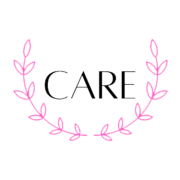
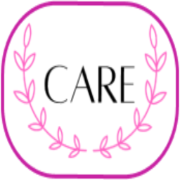
Some Updates

Changed region(s): [[0.0, 0.0, 1.0, 1.0], [0.1944, 0.3611, 0.4167, 0.5833]]

diff --git a/client/src/components/designers/Designer1.js b/client/src/components/designers/Designer1.js
@@ -1,0 +1,110 @@
+export default function desginer1() {
+
+    return (
+        <svg width="1325" height="1358" viewBox="0 0 1325 1358" fill="none" xmlns="http://www.w3.org/2000/svg">
+            <path opacity="0.5" d="M316.502 275.469C267.126 423.968 351.017 595.544 355.426 757.541C356.95 813.917 348.753 870.262 360.92 926.348C388.659 1054.79 513.669 1142.85 633.931 1184.33C691.287 1204.13 752.079 1217.19 808.713 1205.54C852.265 1196.58 890.737 1173.62 928.385 1150.88L1588.48 753.449C1662.17 709.065 1741.89 656.248 1759.71 567.259C1772.01 505.964 1751.71 440.022 1730.78 378.042C1705.06 301.882 1674.37 220.876 1611.31 172.097C1539.22 116.261 1444.75 117.65 1363.2 81.3895C1230.94 22.7139 1137.86 -131.934 999.186 -158.383C934.454 -170.721 870.669 -151.898 812.854 -126.513C703.846 -78.6759 625.067 6.35946 524.223 63.4092C438.026 112.179 350.298 173.808 316.502 275.469Z" fill="#EF99C7" />
+            <rect opacity="0.65" x="1265.01" y="390.065" width="24.0166" height="5" transform="rotate(-31.641 1265.01 390.065)" fill="url(#paint0_linear_159_13)" />
+            <rect opacity="0.65" x="1271.83" y="401.133" width="24.0166" height="5" transform="rotate(-31.641 1271.83 401.133)" fill="url(#paint1_linear_159_13)" />
+            <rect opacity="0.65" x="1278.12" y="411.349" width="24.0166" height="5" transform="rotate(-31.641 1278.12 411.349)" fill="url(#paint2_linear_159_13)" />
+            <rect opacity="0.65" x="1284.94" y="422.417" width="24.0166" height="5" transform="rotate(-31.641 1284.94 422.417)" fill="url(#paint3_linear_159_13)" />
+            <rect opacity="0.65" x="1291.76" y="433.484" width="24.0166" height="5" transform="rotate(-31.641 1291.76 433.484)" fill="url(#paint4_linear_159_13)" />
+            <rect opacity="0.65" x="1298.58" y="444.552" width="24.0166" height="5" transform="rotate(-31.641 1298.58 444.552)" fill="url(#paint5_linear_159_13)" />
+            <rect opacity="0.65" x="1305.4" y="455.619" width="24.0166" height="5" transform="rotate(-31.641 1305.4 455.619)" fill="url(#paint6_linear_159_13)" />
+            <rect opacity="0.65" x="1311.7" y="465.836" width="24.0166" height="5" transform="rotate(-31.641 1311.7 465.836)" fill="url(#paint7_linear_159_13)" />
+            <rect opacity="0.65" x="1318.51" y="476.903" width="24.0166" height="5" transform="rotate(-31.641 1318.51 476.903)" fill="url(#paint8_linear_159_13)" />
+            <defs>
+                <linearGradient id="paint0_linear_159_13" x1="1267.37" y1="411.816" x2="1371.44" y2="322.033" gradientUnits="userSpaceOnUse">
+                    <stop stop-color="white" stop-opacity="0.01" />
+                    <stop offset="0.07" stop-color="white" stop-opacity="0.22" />
+                    <stop offset="0.16" stop-color="white" stop-opacity="0.45" />
+                    <stop offset="0.25" stop-color="white" stop-opacity="0.65" />
+                    <stop offset="0.33" stop-color="white" stop-opacity="0.8" />
+                    <stop offset="0.4" stop-color="white" stop-opacity="0.91" />
+                    <stop offset="0.46" stop-color="white" stop-opacity="0.98" />
+                    <stop offset="0.51" stop-color="white" />
+                </linearGradient>
+                <linearGradient id="paint1_linear_159_13" x1="1274.19" y1="422.884" x2="1378.26" y2="333.101" gradientUnits="userSpaceOnUse">
+                    <stop stop-color="white" stop-opacity="0.01" />
+                    <stop offset="0.07" stop-color="white" stop-opacity="0.22" />
+                    <stop offset="0.16" stop-color="white" stop-opacity="0.45" />
+                    <stop offset="0.25" stop-color="white" stop-opacity="0.65" />
+                    <stop offset="0.33" stop-color="white" stop-opacity="0.8" />
+                    <stop offset="0.4" stop-color="white" stop-opacity="0.91" />
+                    <stop offset="0.46" stop-color="white" stop-opacity="0.98" />
+                    <stop offset="0.51" stop-color="white" />
+                </linearGradient>
+                <linearGradient id="paint2_linear_159_13" x1="1280.48" y1="433.121" x2="1384.55" y2="343.338" gradientUnits="userSpaceOnUse">
+                    <stop stop-color="white" stop-opacity="0.01" />
+                    <stop offset="0.07" stop-color="white" stop-opacity="0.22" />
+                    <stop offset="0.16" stop-color="white" stop-opacity="0.45" />
+                    <stop offset="0.25" stop-color="white" stop-opacity="0.65" />
+                    <stop offset="0.33" stop-color="white" stop-opacity="0.8" />
+                    <stop offset="0.4" stop-color="white" stop-opacity="0.91" />
+                    <stop offset="0.46" stop-color="white" stop-opacity="0.98" />
+                    <stop offset="0.51" stop-color="white" />
+                </linearGradient>
+                <linearGradient id="paint3_linear_159_13" x1="1287.3" y1="444.188" x2="1391.37" y2="354.406" gradientUnits="userSpaceOnUse">
+                    <stop stop-color="white" stop-opacity="0.01" />
+                    <stop offset="0.07" stop-color="white" stop-opacity="0.22" />
+                    <stop offset="0.16" stop-color="white" stop-opacity="0.45" />
+                    <stop offset="0.25" stop-color="white" stop-opacity="0.65" />
+                    <stop offset="0.33" stop-color="white" stop-opacity="0.8" />
+                    <stop offset="0.4" stop-color="white" stop-opacity="0.91" />
+                    <stop offset="0.46" stop-color="white" stop-opacity="0.98" />
+                    <stop offset="0.51" stop-color="white" />
+                </linearGradient>
+                <linearGradient id="paint4_linear_159_13" x1="1294.07" y1="455.235" x2="1398.4" y2="365.513" gradientUnits="userSpaceOnUse">
+                    <stop stop-color="white" stop-opacity="0.01" />
+                    <stop offset="0.07" stop-color="white" stop-opacity="0.22" />
+                    <stop offset="0.16" stop-color="white" stop-opacity="0.45" />
+                    <stop offset="0.25" stop-color="white" stop-opacity="0.65" />
+                    <stop offset="0.33" stop-color="white" stop-opacity="0.8" />
+                    <stop offset="0.4" stop-color="white" stop-opacity="0.91" />
+                    <stop offset="0.46" stop-color="white" stop-opacity="0.98" />
+                    <stop offset="0.51" stop-color="white" />
+                </linearGradient>
+                <linearGradient id="paint5_linear_159_13" x1="1300.89" y1="466.303" x2="1405.22" y2="376.58" gradientUnits="userSpaceOnUse">
+                    <stop stop-color="white" stop-opacity="0.01" />
+                    <stop offset="0.07" stop-color="white" stop-opacity="0.22" />
+                    <stop offset="0.16" stop-color="white" stop-opacity="0.45" />
+                    <stop offset="0.25" stop-color="white" stop-opacity="0.65" />
+                    <stop offset="0.33" stop-color="white" stop-opacity="0.8" />
+                    <stop offset="0.4" stop-color="white" stop-opacity="0.91" />
+                    <stop offset="0.46" stop-color="white" stop-opacity="0.98" />
+                    <stop offset="0.51" stop-color="white" />
+                </linearGradient>
+                <linearGradient id="paint6_linear_159_13" x1="1307.71" y1="477.37" x2="1412.04" y2="387.648" gradientUnits="userSpaceOnUse">
+                    <stop stop-color="white" stop-opacity="0.01" />
+                    <stop offset="0.07" stop-color="white" stop-opacity="0.22" />
+                    <stop offset="0.16" stop-color="white" stop-opacity="0.45" />
+                    <stop offset="0.25" stop-color="white" stop-opacity="0.65" />
+                    <stop offset="0.33" stop-color="white" stop-opacity="0.8" />
+                    <stop offset="0.4" stop-color="white" stop-opacity="0.91" />
+                    <stop offset="0.46" stop-color="white" stop-opacity="0.98" />
+                    <stop offset="0.51" stop-color="white" />
+                </linearGradient>
+                <linearGradient id="paint7_linear_159_13" x1="1314.01" y1="487.586" x2="1418.34" y2="397.864" gradientUnits="userSpaceOnUse">
+                    <stop stop-color="white" stop-opacity="0.01" />
+                    <stop offset="0.07" stop-color="white" stop-opacity="0.22" />
+                    <stop offset="0.16" stop-color="white" stop-opacity="0.45" />
+                    <stop offset="0.25" stop-color="white" stop-opacity="0.65" />
+                    <stop offset="0.33" stop-color="white" stop-opacity="0.8" />
+                    <stop offset="0.4" stop-color="white" stop-opacity="0.91" />
+                    <stop offset="0.46" stop-color="white" stop-opacity="0.98" />
+                    <stop offset="0.51" stop-color="white" />
+                </linearGradient>
+                <linearGradient id="paint8_linear_159_13" x1="1320.82" y1="498.654" x2="1425.16" y2="408.931" gradientUnits="userSpaceOnUse">
+                    <stop stop-color="white" stop-opacity="0.01" />
+                    <stop offset="0.07" stop-color="white" stop-opacity="0.22" />
+                    <stop offset="0.16" stop-color="white" stop-opacity="0.45" />
+                    <stop offset="0.25" stop-color="white" stop-opacity="0.65" />
+                    <stop offset="0.33" stop-color="white" stop-opacity="0.8" />
+                    <stop offset="0.4" stop-color="white" stop-opacity="0.91" />
+                    <stop offset="0.46" stop-color="white" stop-opacity="0.98" />
+                    <stop offset="0.51" stop-color="white" />
+                </linearGradient>
+            </defs>
+        </svg>
+
+    );
+}

diff --git a/client/src/components/designers/Designer2.js b/client/src/components/designers/Designer2.js
@@ -1,0 +1,19 @@
+import React from 'react';
+
+function Designer2(props) {
+    return (
+        <svg width="1440" height="2614" viewBox="0 0 1440 2614" fill="none" xmlns="http://www.w3.org/2000/svg">
+            <g opacity="0.5">
+                <path d="M345.231 1981.62C893.935 2053.57 1608.88 1980.09 1685.73 1971.8C1690.08 1971.33 1693.67 1973.09 1695.82 1976.91C1734.67 2046.05 2093.78 2703.44 1645.44 2602.61C1172.31 2496.21 704.593 2633.8 345.231 2602.61C-14.1312 2571.42 -235.347 1905.48 345.231 1981.62Z" fill="#F8BDD7" />
+                <path d="M369.499 1603.36C918.203 1675.32 1633.15 1601.83 1709.99 1593.55C1714.34 1593.08 1717.94 1594.84 1720.08 1598.65C1758.94 1667.8 2118.05 2325.19 1669.7 2224.36C1196.57 2117.95 728.861 2255.54 369.499 2224.36C10.1365 2193.17 -211.079 1527.23 369.499 1603.36Z" fill="#F8BDD7" />
+                <path d="M379.229 1093.62C927.933 1165.57 1642.88 1092.09 1719.72 1083.8C1724.07 1083.33 1727.67 1085.09 1729.81 1088.91C1768.67 1158.05 2127.78 1815.44 1679.43 1714.61C1206.3 1608.21 738.591 1745.8 379.229 1714.61C19.8672 1683.43 -201.348 1017.48 379.229 1093.62Z" fill="#F8BDD7" />
+                <path d="M379.229 701.059C927.933 773.013 1642.88 699.528 1719.72 691.243C1724.07 690.774 1727.67 692.532 1729.81 696.347C1768.67 765.493 2127.78 1422.88 1679.43 1322.05C1206.3 1215.65 738.591 1353.24 379.229 1322.05C19.8672 1290.87 -201.348 624.925 379.229 701.059Z" fill="#F8BDD7" />
+                <path d="M457.653 520.064C1006.36 592.018 1721.3 518.534 1798.15 510.248C1802.5 509.779 1806.09 511.537 1808.24 515.352C1847.09 584.498 2206.2 1241.89 1757.86 1141.06C1284.73 1034.66 817.015 1172.25 457.653 1141.06C98.2909 1109.87 -122.924 443.931 457.653 520.064Z" fill="#F8BDD7" />
+                <path d="M457.653 10.5588C1006.36 82.5129 1721.3 9.02801 1798.15 0.742602C1802.5 0.273522 1806.09 2.03194 1808.24 5.84686C1847.09 74.9925 2206.2 732.384 1757.86 631.553C1284.73 525.15 817.015 662.741 457.653 631.553C98.2909 600.366 -122.924 -65.5749 457.653 10.5588Z" fill="#F8BDD7" />
+            </g>
+        </svg>
+
+    );
+}
+
+export default Designer2;

diff --git a/client/src/pages/home/Home.js b/client/src/pages/home/Home.js
@@ -1,6 +1,7 @@
 import React from 'react';
 import { Button, Container, Row, Col } from 'react-bootstrap';
 import './Home.scss';
+import { Designer1, Designer2 } from '../../components';
 import { FaWpforms } from 'react-icons/fa';
 
 function Home(props) {
@@ -8,7 +9,7 @@ function Home(props) {
         <div className='home'>
 
             <div className='absolute circle-thing'>
-                <img src='/designer_1.svg' alt="logo" />
+                <Designer1 />
             </div>
 
             <div className='home-initial'>
@@ -62,7 +63,7 @@ function Home(props) {
 
             <div className='wavy-container'>
                 <div className='wavy-thing'>
-                    <img src='/designer_2.svg' alt="logo" />
+                    <Designer2 />
                 </div>
             </div>
 

diff --git a/client/src/components/index.js b/client/src/components/index.js
@@ -1,2 +1,4 @@
 export { default as MainNavbar } from './mainNavBar/MainNavbar';
 export { default as Footer } from './footer/Footer';
+export { default as Designer1 } from './designers/Designer1';
+export { default as Designer2 } from './designers/Designer2';

diff --git a/client/src/pages/home/Home.scss b/client/src/pages/home/Home.scss
@@ -2,7 +2,7 @@
   .circle-thing {
     top: 0;
     right: 0;
-    img {
+    svg {
       width: 60rem;
     }
   }
@@ -13,7 +13,7 @@
     overflow: hidden !important;
     right: 0;
 
-    img {
+    svg {
       width: 100%;
     }
   }
